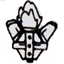
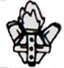
Function update
Add buff drop function
Use transparent background pictures

diff --git a/Components.py b/Components.py
@@ -2,12 +2,14 @@ import pgl as GraphicLib
 import Graphics
 import enum
 import Bullet
+import Buffs
+import random
 
 
 FlyingObjectKind = enum.Enum("FlyingObjectKind", ("SELF", "ENEMY"))
 
 
-class FlyingObject(GraphicLib.GCompound):  # TODO change it to GImage
+class FlyingObject(GraphicLib.GCompound):
     BLAST_START_1 = 5
     BLAST_START_2 = 27
 
@@ -32,13 +34,14 @@ class FlyingObject(GraphicLib.GCompound):  # TODO change it to GImage
         self.__identity = identity
         self.__flying_speed = flying_speed
         self.__health = health
+        self.__max_health = self.health
         self.__bullet_damage = bullet_damage
         self.__object_level = object_level
         self.__main_window = main_window
         self.__attack_type = attack_type
         self.__attack_interval = attack_interval
         # self.attack_timer = None
-        self.attack_timer = self.main_window.setInterval(self.attack_method, self.attack_interval, (self.attack_type,))
+        self.attack_timer = self.main_window.set_interval_with_param(self.attack_method, self.attack_interval, (self.attack_type,))
 
         image = GraphicLib.GImage(appearance_file_path)
         self.add(image)
@@ -90,6 +93,16 @@ class FlyingObject(GraphicLib.GCompound):  # TODO change it to GImage
         self.__health += value
         if self.__health <= 0:
             self.boom()
+        elif self.__health > self.__max_health:
+            self.__health = self.__max_health
+
+    @property
+    def max_health(self):
+        return self.__max_health
+
+    @max_health.setter
+    def max_health(self, value):
+        self.__max_health = value
 
     @property
     def bullet_damage(self):
@@ -247,7 +260,6 @@ class BigJetPlane(FlyingObject):
         self.__is_nuclear_shield_on = False
 
         self.__score = 0
-        self.max_health = self.health
         self.main_window.refill_health()
 
         self.__normal_shield_timer = None
@@ -264,7 +276,7 @@ class BigJetPlane(FlyingObject):
         return self.__is_normal_shield_on
 
     def set_normal_shield_on(self, time_out):
-        if not self.__is_normal_shield_on:
+        if (not self.__is_normal_shield_on) and (not self.__is_nuclear_shield_on):
             self.__normal_shield_timer = GraphicLib.GTimer(self.main_window, self.set_normal_shield_off, time_out)
             self.__normal_shield_timer.start()
             self.__is_normal_shield_on = True
@@ -281,13 +293,12 @@ class BigJetPlane(FlyingObject):
         return self.__is_nuclear_shield_on
 
     def set_nuclear_shield_on(self, time_out):
-        if not self.__is_nuclear_shield_on:
-            self.__nuclear_shield_timer = GraphicLib.GTimer(self.main_window, self.set_normal_shield_off, time_out)
+        if (not self.__is_nuclear_shield_on) and (not self.__is_normal_shield_on):
+            self.__nuclear_shield_timer = GraphicLib.GTimer(self.main_window, self.set_nuclear_shield_off, time_out)
             self.__nuclear_shield_timer.start()
             self.__is_nuclear_shield_on = True
             self.protector.setColor(self.NUCLEAR_PROTECTOR_COLOR)
             self.add(self.protector, -(self.SHIELD_SIZE - self.TEST_SIZE)/2, -(self.SHIELD_SIZE - self.TEST_SIZE)/2)
-
 
     def set_nuclear_shield_off(self):
         if self.__is_nuclear_shield_on:
@@ -355,6 +366,7 @@ class BigJetPlane(FlyingObject):
     def change_health_with(self, value):
         super().change_health_with(value)
         print(self.health)
+
         self.main_window.set_health_percentage(self.health / self.max_health)
 
     def upgrade_bullet_num(self):
@@ -393,11 +405,12 @@ class BigJetPlane(FlyingObject):
     def add_protector_buff(self):
         self.set_normal_shield_on(10000)
 
-    def add_NB_protector_buff(self):
+    def add_nuclear_protector_buff(self):
         self.set_nuclear_shield_on(1000)
 
     def add_health_buff(self):
         self.change_health_with(20)
+
 
 class Enemy(FlyingObject):
     SPEED = 3
@@ -431,9 +444,22 @@ class Enemy(FlyingObject):
                          health=self.health, bullet_damage=1E+10, attack_type=attack_type,
                          object_level=1, attack_interval=self.ATTACK_INTERVAL)
 
-        self.move_timer = self.main_window.setInterval(self.move_to, self.MOVE_DELAY, ())
+        self.move_timer = self.main_window.set_interval_with_param(self.move_to, self.MOVE_DELAY, ())
+        self.buff = self.generate_buff()
+
         self.move_animation()
         self.attack()
+
+    def generate_buff(self):
+        indicator = random.random()
+        if 0 <= indicator < 1/4:
+            return Buffs.BuffBase.add_health_buff_factory(self.main_window, BigJetPlane)
+        elif 1/4 <= indicator < 5/12:
+            return Buffs.BuffBase.add_protector_buff_factory(self.main_window, BigJetPlane)
+        elif 26/36 <= indicator < 8/9:
+            return Buffs.BuffBase.add_nuclear_protector_buff_factory(self.main_window, BigJetPlane)
+        elif 8/9 <= indicator < 1:
+            return Buffs.BuffBase.add_bullet_buff_factory(self.main_window, BigJetPlane)
 
     def attack_method(self, attack_type):
         if self.move_flag and self.main_window.start_flag:
@@ -460,10 +486,10 @@ class Enemy(FlyingObject):
                 self.move(0, self.SPEED)
 
     def boom(self):
+        self.drop_buff()
         self.main_window.decrease_enemy_on_board()
         self.main_window.interval_list.pop(self)
         if self.main_window.big_jet_plane is not None:
-            print(self.__repr__(), "worth point", self.worth_exp)
             self.main_window.big_jet_plane.update_score(self.worth_exp)
 
         super().boom()
@@ -535,11 +561,12 @@ class Enemy(FlyingObject):
         cls.reset_health()
         cls.reset_speed()
 
-
-
-
-
-
+    def drop_buff(self):
+        center = (self.getX() + BigJetPlane.TEST_SIZE, self.getY() + BigJetPlane.TEST_SIZE)
+        if self.buff is not None:
+            self.main_window.add(self.buff, *center)
+            self.buff.sendToBack()
+            self.buff.animation()
 
 
 class Swift(Enemy):
@@ -554,6 +581,7 @@ class Swift(Enemy):
 
     def __init__(self, main_window):
         super().__init__(main_window, Bullet.BulletIdentity.LIGHT_BALL.cls)
+
 
 class Normal(Enemy):
     MOVE_DELAY = 10

diff --git a/Buffs.py b/Buffs.py
@@ -1,38 +1,103 @@
 import pgl as GraphicLib
 
-
-
-class BuffBase(GraphicLib.GOval):
-    DIAMETER = 10
+class BuffBase(GraphicLib.GCompound):
+    DIAMETER = 20
     RADIUS = DIAMETER / 2
+    STAGE_COUNT = 6
+    REFRESH_RATE = 15
 
-    def __init__(self, main_window, method):
-        super().__init__(self.DIAMETER, self.DIAMETER)
+    STAGE_1 = GraphicLib.convertRGBToColor(0x75C38A)
+    STAGE_2 = GraphicLib.convertRGBToColor(0xB5D16D)
+    STAGE_3 = GraphicLib.convertRGBToColor(0xF7C443)
+    STAGE_4 = GraphicLib.convertRGBToColor(0xED6242)
+    STAGE_5 = GraphicLib.convertRGBToColor(0xB7263D)
+    FINAL_STAGE = GraphicLib.convertRGBToColor(0xFFFFFF)
+
+    COLOR_STAGE = {1: STAGE_1, 2: STAGE_2, 3: STAGE_3, 4: STAGE_4, 5: STAGE_5, 6: FINAL_STAGE}
+
+    # TODO buff indicator
+
+    def __init__(self, main_window, method, stage_time=1000):
+        super().__init__()
+
+        self.under = GraphicLib.GOval(self.DIAMETER, self.DIAMETER)
+        self.under.setFilled(True)
+        self.under.setColor(self.STAGE_2)
+
+        self.upper = GraphicLib.GArc(self.DIAMETER+1, self.DIAMETER+1, 90, 360)
+        self.upper.setFilled(True)
+        self.upper.setColor(self.STAGE_2)
+
+        self.add(self.under)
+        self.add(self.upper)
+
         self.main_window = main_window
         self.buff_method = method
+        self.stage_time = stage_time
+        self.loop_times = stage_time // self.REFRESH_RATE
+        self.sweep_angel_delta = 360 / self.loop_times
+        self.CENTER_POINT = None
 
-    def move_motion(self):
-        pass
+        self.current_stage = 1
+        self.current_loop = 0
+        self.spin_clock = None
 
-    def move_to(self):
-        pass
+    def animation(self):
+        self.animation_helper()
+        self.sendBackward()
+
+    def spin(self):
+        self.is_hit()
+        if self.current_loop > self.loop_times:
+            self.spin_clock.stop()
+            self.current_loop = 0
+            self.animation_helper()
+        else:
+            self.upper.setSweepAngle(self.upper.getSweepAngle() - self.sweep_angel_delta)
+            self.current_loop += 1
+
+    def animation_helper(self):
+        if self.current_stage == BuffBase.STAGE_COUNT:
+            self.main_window.remove(self)
+            del self
+        else:
+            self.CENTER_POINT = (self.getX() + self.RADIUS, self.getY() + self.RADIUS)
+            self.upper.setColor(BuffBase.COLOR_STAGE[self.current_stage])
+            self.upper.setSweepAngle(359)
+            self.under.setColor(BuffBase.COLOR_STAGE[self.current_stage + 1])
+
+            self.spin_clock = self.main_window.setInterval(self.spin, self.REFRESH_RATE)
+
+            self.current_stage += 1
 
     def is_hit(self):
-        pass
+        import Components
+        eles = self.main_window.get_elements_at(*self.CENTER_POINT)
+        if len(eles) > 1:
+            for ele in eles:
+                if issubclass(ele.__class__, Components.BigJetPlane):
+                    self.buff_method(ele)
+                    self.main_window.remove(self)
+                    # del self
 
-    import Components
     @staticmethod
-    def add_bullet_buff_factory(main_window, entity: Components.BigJetPlane):
+    def add_bullet_buff_factory(main_window, entity):
         return BuffBase(main_window, entity.bullet_num_increase_buff)
 
     @staticmethod
-    def add_protector_buff_factory(main_window, entity: Components.BigJetPlane):
+    def add_protector_buff_factory(main_window, entity):
         return BuffBase(main_window, entity.add_protector_buff)
 
     @staticmethod
-    def add_NB_protector_buff_factory(main_window, entity: Components.BigJetPlane):
-        return BuffBase(main_window, entity.add_NB_protector_buff)
+    def add_nuclear_protector_buff_factory(main_window, entity):
+        return BuffBase(main_window, entity.add_nuclear_protector_buff)
 
     @staticmethod
-    def add_health_buff_factory(main_window, entity: Components.BigJetPlane):
+    def add_health_buff_factory(main_window, entity):
         return BuffBase(main_window, entity.add_health_buff)
+
+
+if __name__ == "__main__":
+    import Components
+    gw = GraphicLib.GWindow(600, 400)
+    gw.add(BuffBase.add_health_buff_factory(gw, Components.BigJetPlane), 300, 200)

diff --git a/Graphics.py b/Graphics.py
@@ -44,7 +44,7 @@ class CustomizedMainWindow(GraphicLib.GWindow):
         self.BUTTON_HEIGHT = self.start_click_button.getHeight()
         # self.addEventListener('drag', self.start_reset_handler)
         self.add(self.start_click_button, (WINDOW_WIDTH - self.start_click_button.getWidth())/2, (WINDOW_HEIGHT - self.start_click_button.getHeight())/2)
-        self.__clock = self.setInterval(self.add_enemy, PUT_ENEMY_INTERVAL, ())
+        self.__clock = self.set_interval_with_param(self.add_enemy, PUT_ENEMY_INTERVAL, ())
 
         self.big_jet_plane = None
 
@@ -85,14 +85,18 @@ class CustomizedMainWindow(GraphicLib.GWindow):
     def switch_huge_on(self):
         self.__current_huge_on = not self.__current_huge_on
 
-    def setInterval(self, fn, delay, params):
+    def set_interval_with_param(self, fn, delay, params):
         timer = CustomizedTimer(self, fn, delay, params)
         timer.setRepeats(True)
         # timer.start()
         return timer
 
-    def createTimer(self, fn, delay, params):
-        return CustomizedTimer(fn, delay, params)
+    def get_elements_at(self, x, y):
+        content = []
+        for gobj in reversed(self.base.contents):
+            if gobj.contains(x, y):
+                content.append(gobj)
+        return content
 
     def start_reset_handler(self):
         if not self.__start_flag:
@@ -304,6 +308,8 @@ class TopInfoBar(GraphicLib.GCompound):
 
         self.add(half_exp_prompt, self.HALF_EXP_PROMPT_X_COOR, self.HALF_EXP_PROMPT_Y_COOR)
         self.add(self.__half_exp_label, self.HALF_EXP_LABEL_X_COOR, self.HALF_EXP_PROMPT_Y_COOR)
+
+        # buff info section
 
     @property
     def score_label(self):

diff --git a/Bullet.py b/Bullet.py
@@ -43,7 +43,7 @@ class SingleMG(GraphicLib.GRect):
         return self.__damage
 
     def move_animation(self):
-        self.timer = self.main_window.setInterval(self.move_to, MOVE_DELAY, (0, -self.flying_speed))
+        self.timer = self.main_window.set_interval_with_param(self.move_to, MOVE_DELAY, (0, -self.flying_speed))
         self.timer.start()
 
     def move_to(self, dx, dy):
@@ -91,7 +91,7 @@ class NMG(GraphicLib.GCompound):
         self.com_width = (Components.BigJetPlane.TEST_SIZE - self.getWidth()) / 2
 
     def move_animation(self):
-        self.timer = self.main_window.setInterval(self.move_to, MOVE_DELAY, (0, -FLYING_SPEED))
+        self.timer = self.main_window.set_interval_with_param(self.move_to, MOVE_DELAY, (0, -FLYING_SPEED))
         self.timer.start()
 
     def move_to(self, dx, dy):
@@ -171,7 +171,7 @@ class LightBallStringCompound(GraphicLib.GCompound):
         self.com_width = (Components.BigJetPlane.TEST_SIZE - self.getWidth()) / 2
 
         # speed is positive, moving downward
-        self.timer = self.main_window.setInterval(self.move_to, LightBallStringCompound.LIGHT_BALL_MOVE_DELAY, (0, flying_speed))
+        self.timer = self.main_window.set_interval_with_param(self.move_to, LightBallStringCompound.LIGHT_BALL_MOVE_DELAY, (0, flying_speed))
         self.move_animation()
 
     def move_animation(self):

diff --git a/README.md b/README.md
@@ -1,2 +1,3 @@
 # Big-Jet-Plane
 Graphic Contest at Reed 2019 Fall
+
